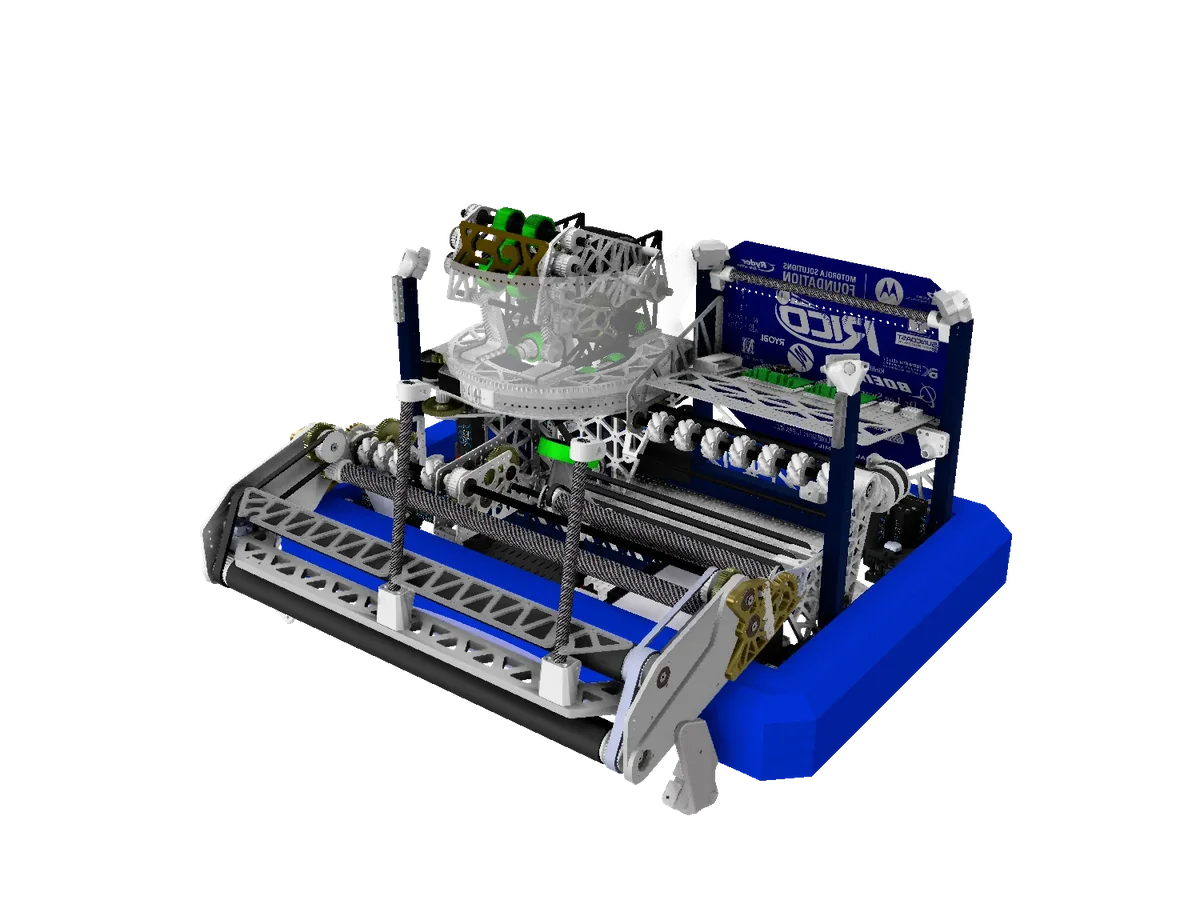
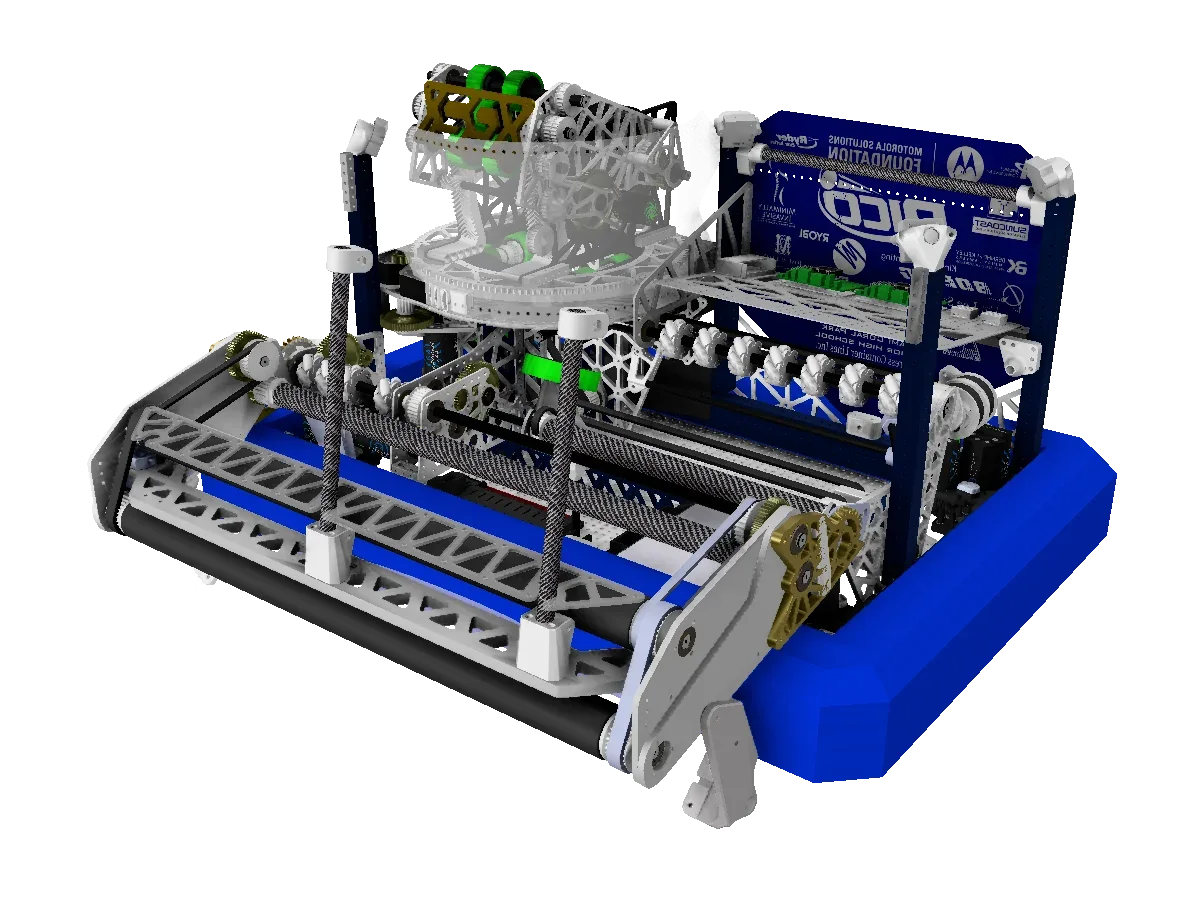
Frame Rico tightly: follow the fit around the orbit, centre vertically
The viewer was sized for the robot's widest angle, so the opening shot
sat 12% further out than it needed to. The fit is now worked out per
angle and the idle orbit eases in and out to follow it, and the pivot is
lifted so the silhouette is centred. The poster is re-rendered to match:
the robot fills ~86% of the plate, up from ~68%.

diff --git a/index.html b/index.html
@@ -1279,7 +1279,7 @@ window.__mount3D = function (host, url, opts) {
   restore.setAttribute("aria-label", "Restore the starting view");
   restore.innerHTML = '<svg viewBox="0 0 12 12" fill="none" stroke="currentColor" stroke-width="1.4" stroke-linecap="round" stroke-linejoin="round"><path d="M2.2 6.6A3.9 3.9 0 1 0 3.3 3.2"/><path d="M2.4 1.6v2.1h2.1"/></svg>Restore';
   host.appendChild(restore);
-  let home = null, tween = null;
+  let home = null, tween = null, fitAt = null;
   controls.addEventListener("start", () => {
     tween = null;
     controls.autoRotate = false;
@@ -1377,8 +1377,10 @@ window.__mount3D = function (host, url, opts) {
 
       // Fit the model's actual shape, not its bounding sphere or box: both are
       // padded with empty corners the robot never fills, which left it small in
-      // a big empty plate. A sample of real vertices is tested from every angle
-      // of the spin, so whichever side faces the camera it still fits.
+      // a big empty plate. The fit is worked out for every angle of the spin,
+      // and the idle orbit follows it — easing in when the robot is narrow to
+      // the camera and out when it turns a corner — so it fills the frame the
+      // whole way round instead of being sized for its widest angle.
       const pts = [], v = new THREE.Vector3();
       root.traverse((o) => {
         const pos = o.isMesh && o.geometry && o.geometry.attributes.position;
@@ -1391,22 +1393,44 @@ window.__mount3D = function (host, url, opts) {
       const up = new THREE.Vector3(0, 1, 0);
       const elev = Math.asin(dir.y), az0 = Math.atan2(dir.x, dir.z);
       const tanV = Math.tan((camera.fov * Math.PI) / 360), tanH = tanV * camera.aspect;
-      let dist = 0;
-      for (let k = 0; k < 36; k++) {
-        const az = az0 + (k / 36) * Math.PI * 2;
+      const FIT_MARGIN = 1.12, STEPS = 72;   // room for the corner labels
+      const basis = (az) => {
         const d = new THREE.Vector3(Math.cos(elev) * Math.sin(az), Math.sin(elev), Math.cos(elev) * Math.cos(az));
         const r = new THREE.Vector3().crossVectors(up, d).normalize();
-        const u = new THREE.Vector3().crossVectors(d, r);
+        return { d, r, u: new THREE.Vector3().crossVectors(d, r) };
+      };
+      const fitFor = (az) => {
+        const { d, r, u } = basis(az);
+        let need = 0;
         for (const p of pts) {
           const z = p.dot(d);
-          dist = Math.max(dist, Math.abs(p.dot(r)) / tanH + z, Math.abs(p.dot(u)) / tanV + z);
+          need = Math.max(need, Math.abs(p.dot(r)) / tanH + z, Math.abs(p.dot(u)) / tanV + z);
         }
+        return need || sphere.radius * 2;
+      };
+      // Seen from above, a robot's silhouette sits low around its box centre.
+      // Lift the orbit's pivot so the opening shot is centred top to bottom.
+      {
+        const D = fitFor(az0), { d, u } = basis(az0);
+        let lo = Infinity, hi = -Infinity;
+        for (const p of pts) { const y = p.dot(u) / (D - p.dot(d)); lo = Math.min(lo, y); hi = Math.max(hi, y); }
+        const dy = ((lo + hi) / 2) * D / Math.cos(elev);
+        center.y += dy;
+        for (const p of pts) p.y -= dy;
       }
-      dist = (dist || sphere.radius * 2) * 1.05;
+      const fits = [];
+      for (let k = 0; k < STEPS; k++) fits.push(fitFor((k / STEPS) * Math.PI * 2) * FIT_MARGIN);
+      // distance that fits the robot when the camera sits at azimuth `az`
+      fitAt = (az) => {
+        const f = ((az / (Math.PI * 2)) % 1 + 1) % 1 * STEPS, i = Math.floor(f), t = f - i;
+        return fits[i % STEPS] * (1 - t) + fits[(i + 1) % STEPS] * t;
+      };
+      const dist = fitAt(az0);
+      const far = Math.max(...fits);
       controls.target.copy(center);
       camera.position.copy(center).add(dir.clone().multiplyScalar(dist));
       camera.near = Math.max(dist / 1000, 1e-4);
-      camera.far = dist * 12;
+      camera.far = far * 12;
       camera.updateProjectionMatrix();
       controls.update();
       home = { pos: camera.position.clone(), tgt: center.clone() };
@@ -1432,6 +1456,12 @@ window.__mount3D = function (host, url, opts) {
           camera.position.lerpVectors(tween.pos, home.pos, e);
           controls.target.lerpVectors(tween.tgt, home.tgt, e);
           if (t === 1) { tween = null; controls.autoRotate = spin; }
+        } else if (controls.autoRotate && fitAt) {
+          // ride the fit while idling; it changes slowly, so a gentle follow
+          // reads as framing rather than zooming
+          const off = camera.position.clone().sub(controls.target);
+          const want = fitAt(Math.atan2(off.x, off.z)), len = off.length();
+          camera.position.copy(controls.target).add(off.setLength(len + (want - len) * 0.06));
         }
         controls.update(); composer.render(); raf = requestAnimationFrame(tick);
       };
